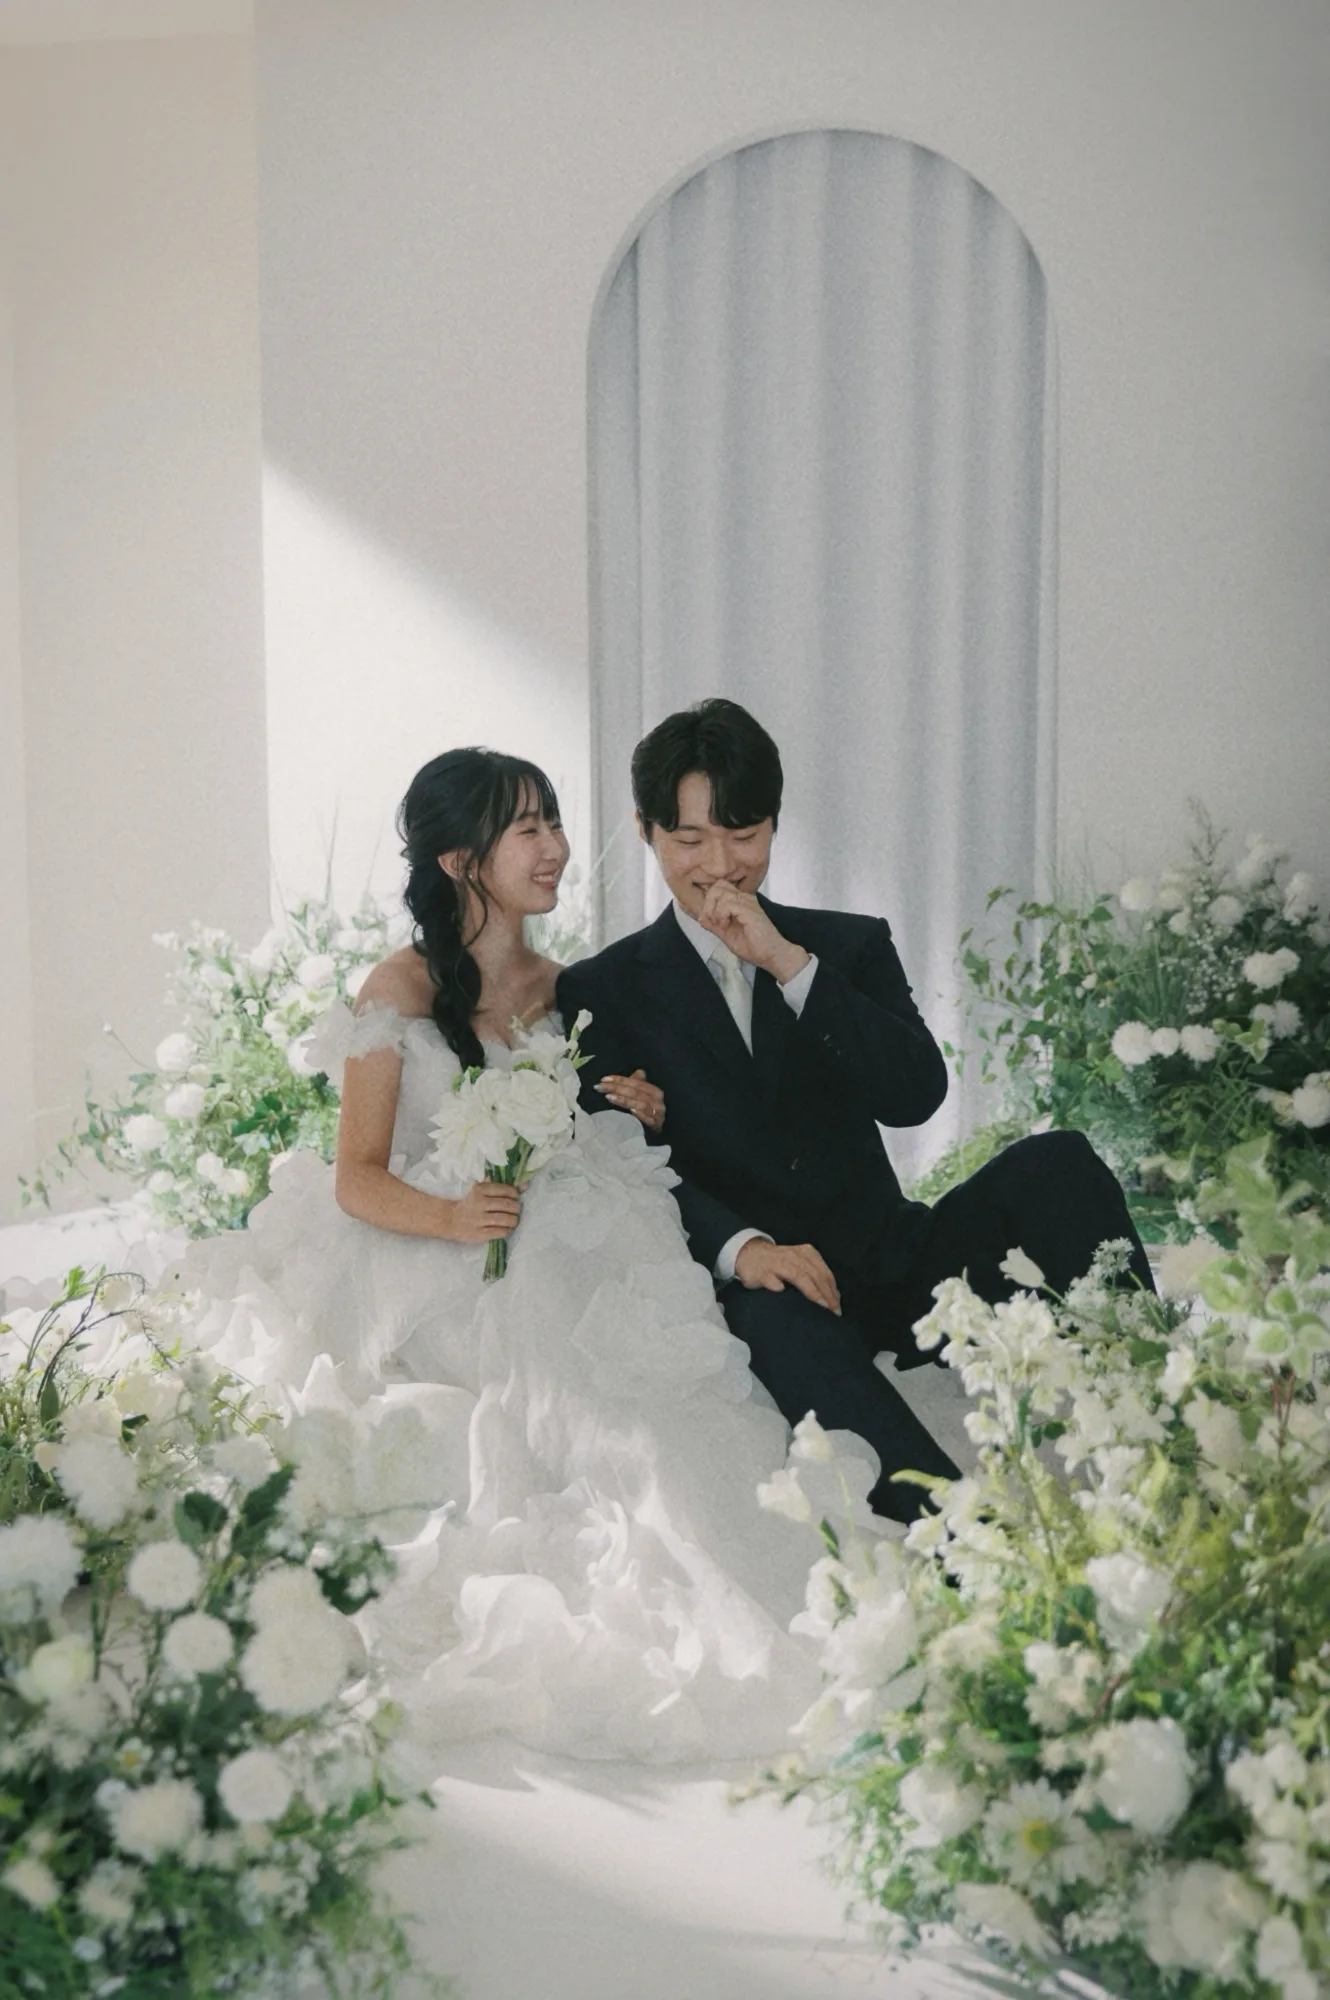
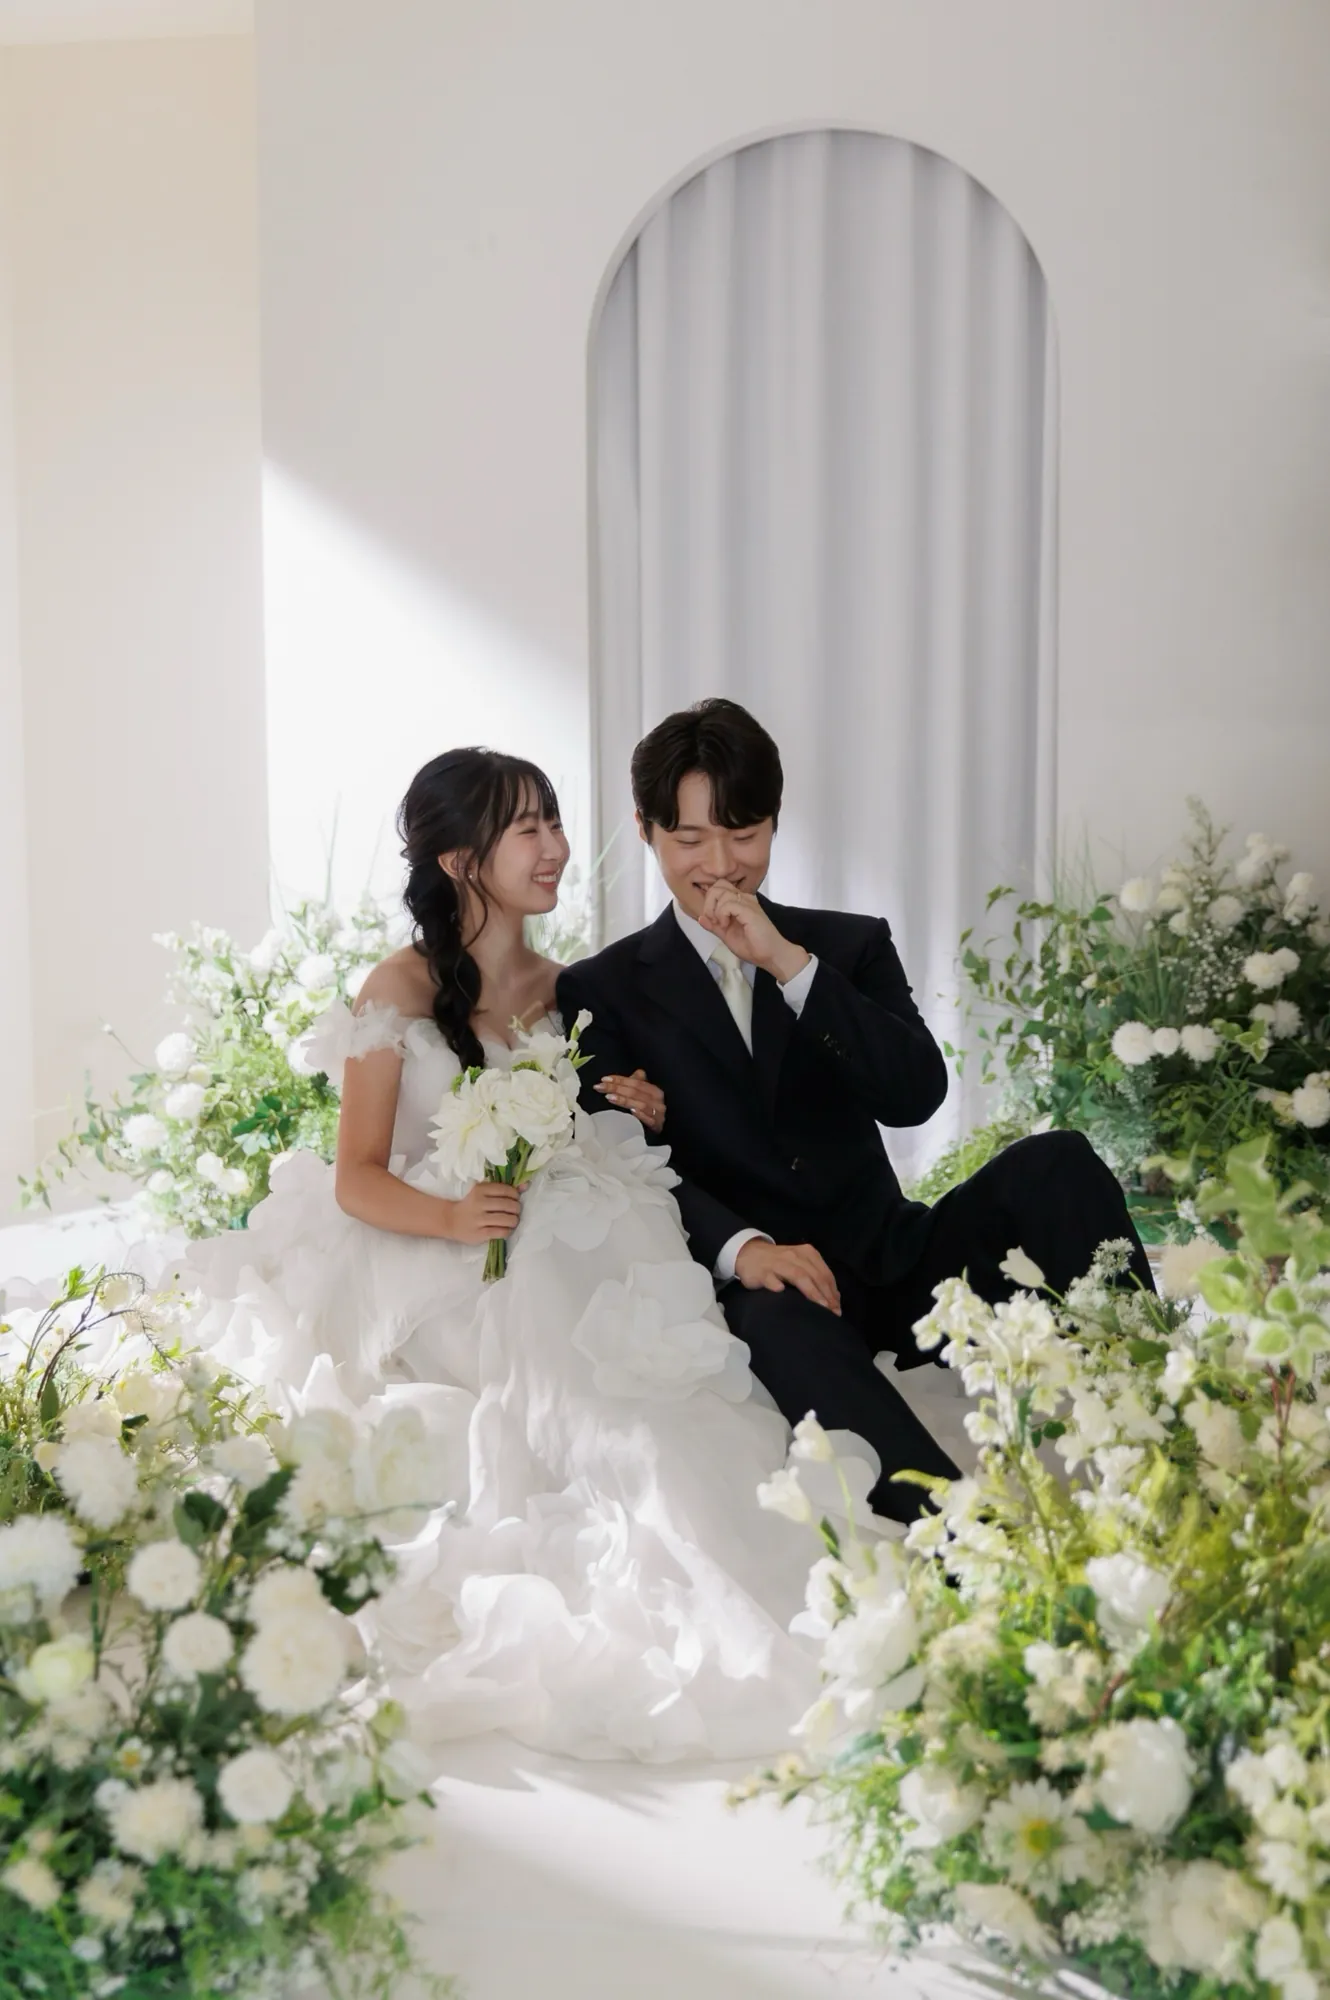
feat : 메인 사진 전체 화면 및 커버 문구를 사진 위로 배치
- 꽃잎 효과 제거
- 메인 사진을 화면 가득 채우고 고해상도로 다시 추출
- 영문 정보·이름·예식장을 사진 아래쪽에, We're getting married 문구를 가운데에 먹색으로 배치
- 갤러리 2번 사진을 필터 없는 원본으로 교체

diff --git a/src/sections/Cover.module.css b/src/sections/Cover.module.css
@@ -1,14 +1,13 @@
-/* 첫 화면 = 청첩장 앞면. 넉넉한 여백 가운데 작은 사진 한 장 */
+/* 첫 화면. 사진이 화면을 가득 채우고 글씨는 사진 위에 먹색으로 얹는다 */
 .cover {
-  --frame-w: min(76%, 39svh);
-
   position: relative;
   display: flex;
   flex-direction: column;
-  justify-content: center;
+  justify-content: flex-end;
   min-height: 100svh;
-  padding: var(--sp-16) var(--section-px);
+  overflow: hidden;
   text-align: center;
+  color: var(--text);
 }
 
 @media (min-width: 481px) {
@@ -17,24 +16,61 @@
   }
 }
 
+/* Photo 컴포넌트 기본값(position: relative)보다 우선하도록 선택자를 한 단계 높인다 */
+.cover .photo {
+  position: absolute;
+  inset: 0;
+  height: 100%;
+}
+
+.cover .photo img {
+  /* 폭이 잘릴 때는 두 사람이 가운데 오도록, 높이가 잘릴 때는 얼굴이 남도록 */
+  object-position: 48% 20%;
+}
+
+/* 아래쪽 글씨가 잘 읽히도록 사진 끝을 종이색으로 살짝 바랜다 */
+.cover::after {
+  content: '';
+  position: absolute;
+  inset: 0;
+  background: linear-gradient(
+    to top,
+    rgb(255 255 255 / 72%) 0%,
+    rgb(255 255 255 / 40%) 18%,
+    rgb(255 255 255 / 0%) 38%
+  );
+  pointer-events: none;
+}
+
+.script,
+.bottom {
+  position: relative;
+  z-index: 1;
+  text-shadow: 0 0 14px rgb(255 255 255 / 55%);
+}
+
+.script {
+  position: absolute;
+  top: 50%;
+  left: 0;
+  right: 0;
+  translate: 0 -50%;
+  font-family: var(--font-script);
+  font-size: clamp(3.5rem, 2.6rem + 4.5vw, 4.25rem);
+  line-height: 1.05;
+  color: rgb(31 31 31 / 90%);
+  animation: fade-up 1.6s 0.4s ease both;
+}
+
+.bottom {
+  padding: var(--sp-12) var(--section-px) max(var(--sp-12), env(safe-area-inset-bottom));
+  animation: fade-up 1.2s 0.9s ease both;
+}
+
 .typed {
-  width: var(--frame-w);
-  margin: 0 auto var(--sp-8);
   font-family: var(--font-mono);
   font-size: clamp(0.8125rem, 0.7rem + 0.5vw, 0.9375rem);
   line-height: 1.5;
-  color: var(--text);
-  animation: fade-up 1.2s 0.2s ease both;
-}
-
-.photo {
-  width: var(--frame-w);
-  margin-inline: auto;
-}
-
-.text {
-  margin-top: var(--sp-8);
-  animation: fade-up 1.2s 0.5s ease both;
 }
 
 .names {
@@ -43,6 +79,7 @@
   align-items: baseline;
   justify-content: center;
   gap: var(--sp-3);
+  margin-top: var(--sp-6);
   font-size: var(--fs-lg);
   font-weight: 400;
   letter-spacing: 0.12em;
@@ -59,7 +96,7 @@
   margin-top: var(--sp-2);
   font-size: var(--fs-sm);
   letter-spacing: 0.08em;
-  color: var(--text-sub);
+  color: #4a4a4a;
 }
 
 @keyframes fade-up {
@@ -70,8 +107,8 @@
 }
 
 @media (prefers-reduced-motion: reduce) {
-  .typed,
-  .text {
+  .script,
+  .bottom {
     animation: none;
   }
 }

diff --git a/src/sections/Cover.tsx b/src/sections/Cover.tsx
@@ -1,4 +1,3 @@
-import { PetalCanvas } from '../components/PetalCanvas';
 import { Photo } from '../components/Photo';
 import { wedding } from '../config/wedding';
 import { formatDateTimeDot, toKst } from '../lib/date';
@@ -11,26 +10,32 @@ export function Cover() {
 
   return (
     <header className={styles.cover}>
-      {/* 타자기로 친 듯한 영문 정보 */}
-      <div className={styles.typed}>
-        <p>
-          {groom.en.lastName} {groom.en.firstName} &amp; {bride.en.lastName} {bride.en.firstName}
-        </p>
-        <p>{formatDateTimeDot(date)}</p>
-        <p>{venue.enName}</p>
-      </div>
+      <Photo
+        className={styles.photo}
+        src={getPhoto(cover.photo)}
+        alt={`${groom.firstName} ♥ ${bride.firstName} 웨딩 사진`}
+        ratio="auto"
+        label="MAIN PHOTO"
+        priority
+      />
 
-      <div className={styles.photo}>
-        <Photo
-          src={getPhoto(cover.photo)}
-          alt={`${groom.firstName} ♥ ${bride.firstName} 웨딩 사진`}
-          ratio="3 / 4"
-          label="MAIN PHOTO"
-          priority
-        />
-      </div>
+      {/* 사진 한가운데 필기체 문구 */}
+      <p className={styles.script}>
+        We&rsquo;re getting
+        <br />
+        married
+      </p>
 
-      <div className={styles.text}>
+      <div className={styles.bottom}>
+        {/* 타자기로 친 듯한 영문 정보 */}
+        <div className={styles.typed}>
+          <p>
+            {groom.en.lastName} {groom.en.firstName} &amp; {bride.en.lastName} {bride.en.firstName}
+          </p>
+          <p>{formatDateTimeDot(date)}</p>
+          <p>{venue.enName}</p>
+        </div>
+
         <h1 className={styles.names}>
           <span>{groom.firstName}</span>
           <span className={styles.amp} aria-hidden="true">
@@ -41,8 +46,6 @@ export function Cover() {
         </h1>
         <p className={styles.venue}>{venue.name}</p>
       </div>
-
-      {cover.petals && <PetalCanvas />}
     </header>
   );
 }

diff --git a/src/config/types.ts b/src/config/types.ts
@@ -74,7 +74,6 @@ export interface WeddingConfig {
   cover: {
     /** src/assets/photos/ 안의 파일명 */
     photo?: string;
-    petals: boolean;
   };
   intro: {
     text: string;

diff --git a/src/config/wedding.ts b/src/config/wedding.ts
@@ -58,7 +58,6 @@ export const wedding: WeddingConfig = {
 
   cover: {
     photo: 'main.webp',
-    petals: true,
   },
 
   intro: {
